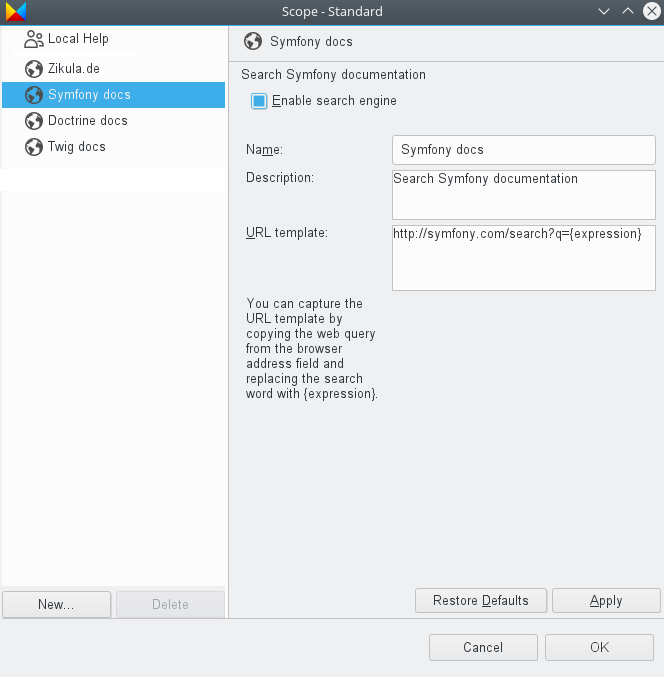
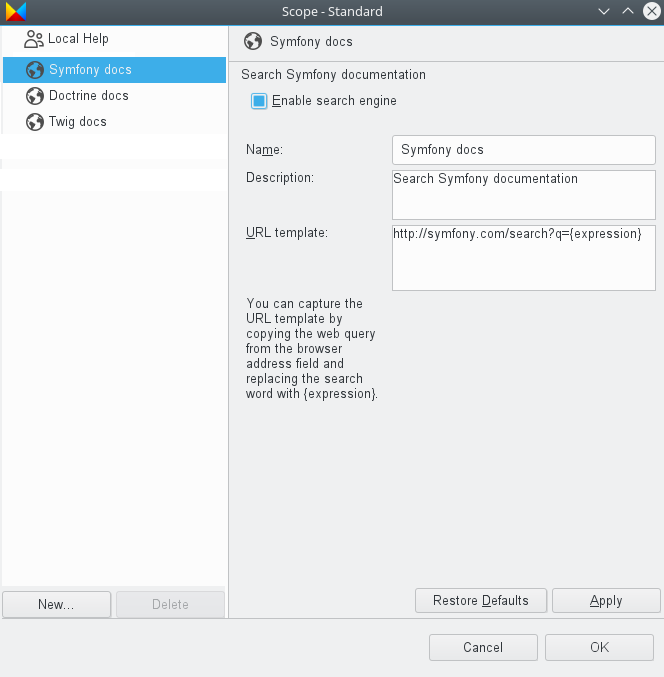
vendor update

Changed region(s): [[0.0, 0.062, 0.3614, 0.2482]]

diff --git a/bundles/de.guite.modulestudio.help/doc/33-Views.md b/bundles/de.guite.modulestudio.help/doc/33-Views.md
@@ -149,7 +149,7 @@ Note if you search for a keyword, this keyword is highlighted in the results.
 
 ### Searching on web sites
 
-The help view allows you to extend a search to different websites, like the (German) Zikula support site and documentation for Symfony, Doctrine and Twig.
+The help view allows you to extend a search to different websites, like documentation for Symfony, Doctrine and Twig.
 
 ![Search options in help view](images/ui_views_help_search_options.png "Search options in help view")
 
@@ -169,5 +169,5 @@ Finally you could even create additional search engines using the *New...* butto
 
 ![Creating additional search engines](images/ui_views_help_search_options_additions.png "Creating additional search engines")
 
-So you could have several *Local Help* entries, each referencing different topics of the manual. Or you could add a web search pointing to some website offering further information you find useful. You only need the search results URL and replace the keyword by `{expression}`. You can even use a web search engine if a site does not provide a search function. For example for the Twig documentation the URL template used is `https://www.google.com/?q={expression}+site:twig.sensiolabs.org`.
+So you could have several *Local Help* entries, each referencing different topics of the manual. Or you could add a web search pointing to some website offering further information you find useful. You only need the search results URL and replace the keyword by `{expression}`. You can even use a web search engine if a site does not provide a search function. For example for the Twig documentation the URL template used is `https://www.google.com/?q={expression}+site:https://twig.symfony.com/`.
 
